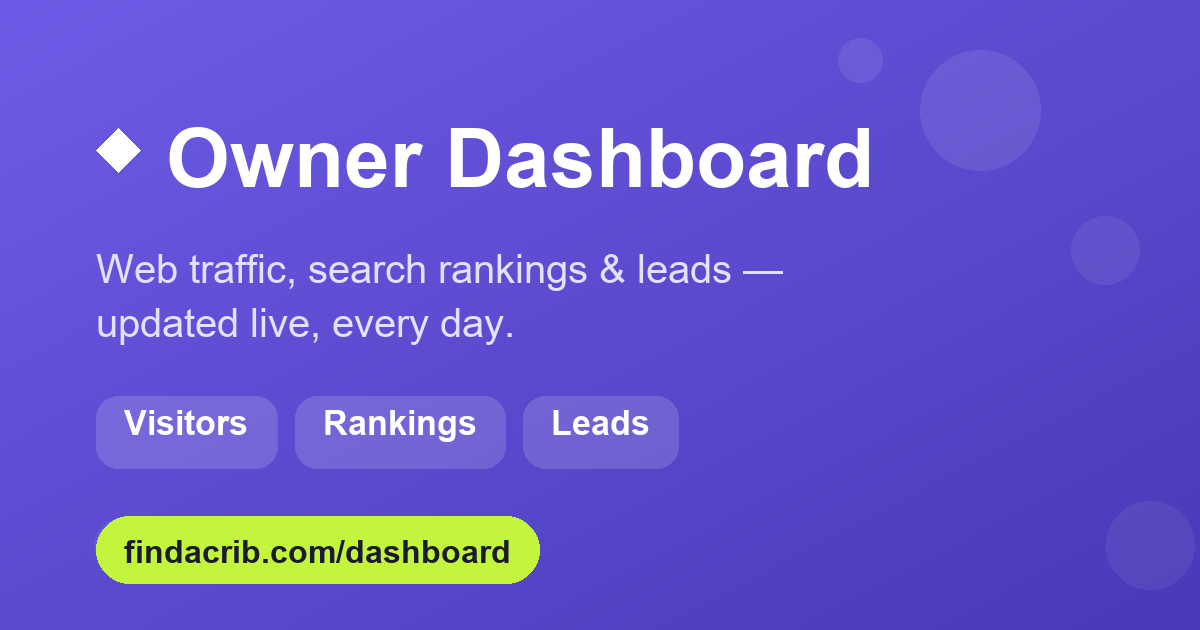
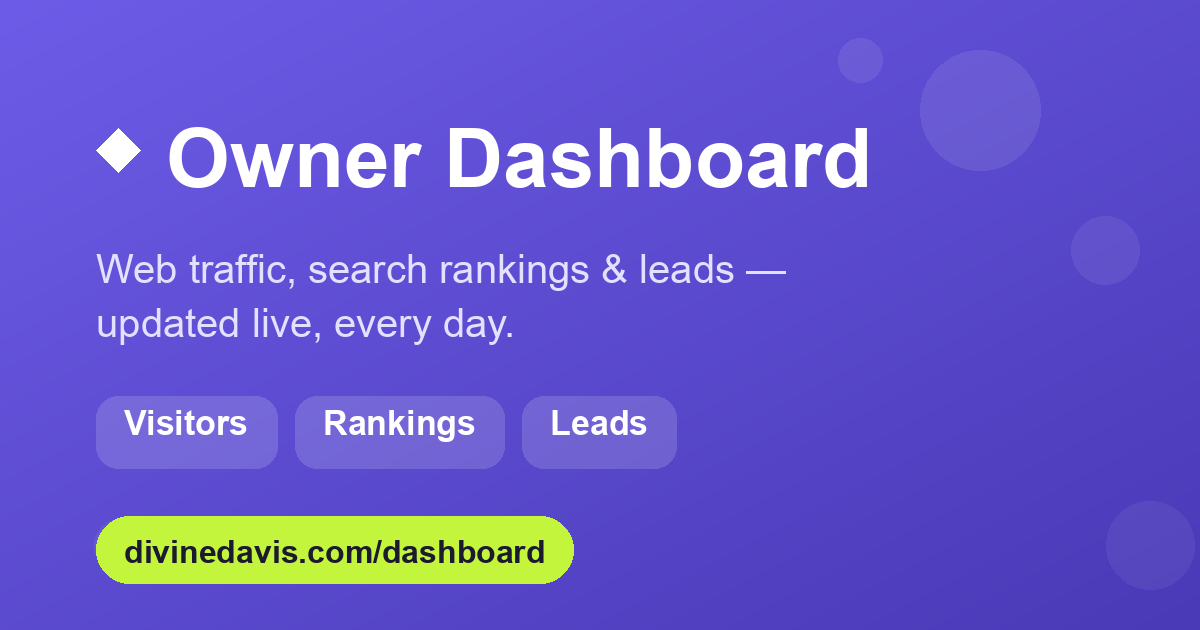
Move the owner dashboard to divinedavis.com/dashboard/
The dashboard covers four businesses, so it shouldn't live on
Find A Crib's domain. The page and the Users page are now served from
the divinedavis.com droplet. Google sign-in works the same way on the
same Supabase project, with divinedavis.com/dashboard/ and /users/
added to the auth redirect allow-list.

Data still comes from findacrib-api. The divinedavis.com nginx proxies
/api/dashboard-* to findacrib.com (prefix-scoped), so the page's
fetches stay same-origin: no CORS and no bearer token crossing origins.
findacrib.com/dashboard* now 301s to the new host, which keeps old
links, the growth report link and Eric's bookmark working.

- dashboard/supabase-config.js: only the Supabase URL and anon key, not
  the root config.js with the maps keys (named so the config.js ignore
  rule doesn't catch it)
- scripts/deploy_dashboard.sh: scp to the docroot, then check each file
  by md5 against the live URL
- og card and growth report link point at the new URL
- users/index.html also commits a sidebar cleanup that was already live
  but uncommitted

diff --git a/dashboard/index.html b/dashboard/index.html
@@ -4,24 +4,24 @@
 <meta charset="UTF-8">
 <meta name="viewport" content="width=device-width, initial-scale=1.0">
 <meta name="robots" content="noindex, nofollow">
-<title>Find A Crib — Owner Dashboard</title>
+<title>Owner Dashboard</title>
 <!-- Link preview. This URL gets texted, and with no og: tags iMessage renders
      a bare grey rectangle showing only the domain, which reads like a broken
      link. noindex above still applies: og: tags describe the card, they don't
      invite crawlers, and the page's data stays behind the sign-in gate. -->
 <meta property="og:type" content="website">
-<meta property="og:site_name" content="Find A Crib">
+<meta property="og:site_name" content="Divine Davis">
 <meta property="og:title" content="Owner Dashboard">
 <meta property="og:description" content="Web traffic, search rankings and leads — updated live, every day.">
-<meta property="og:url" content="https://findacrib.com/dashboard/">
-<meta property="og:image" content="https://findacrib.com/dashboard/og-dashboard.png">
+<meta property="og:url" content="https://divinedavis.com/dashboard/">
+<meta property="og:image" content="https://divinedavis.com/dashboard/og-dashboard.png">
 <meta property="og:image:width" content="1200">
 <meta property="og:image:height" content="630">
 <meta property="og:image:alt" content="Owner Dashboard — web traffic, search rankings and leads.">
 <meta name="twitter:card" content="summary_large_image">
 <meta name="twitter:title" content="Owner Dashboard">
 <meta name="twitter:description" content="Web traffic, search rankings and leads — updated live, every day.">
-<meta name="twitter:image" content="https://findacrib.com/dashboard/og-dashboard.png">
+<meta name="twitter:image" content="https://divinedavis.com/dashboard/og-dashboard.png">
 <link rel="apple-touch-icon" href="/dashboard/og-dashboard.png">
 <!-- Paint the saved theme before the first frame. Without this the page flashes
      light for one frame on every load, which is worst in the dark. The profile
@@ -682,8 +682,11 @@
   </main>
 </div>
 
-<script src="/config.js"></script>
-<script src="/static/supabase/supabase.js"></script>
+<!-- Served from divinedavis.com/dashboard/, so the Supabase config and client
+     ship beside the page; /api/dashboard-* is proxied to findacrib.com by the
+     divinedavis.com nginx (see scripts/deploy_dashboard.sh). -->
+<script src="/dashboard/supabase-config.js?v=1"></script>
+<script src="/dashboard/supabase.js?v=1"></script>
 <script>
 (function(){
   "use strict";

diff --git a/dashboard/users/index.html b/dashboard/users/index.html
@@ -4,7 +4,7 @@
 <meta charset="UTF-8">
 <meta name="viewport" content="width=device-width, initial-scale=1.0">
 <meta name="robots" content="noindex, nofollow">
-<title>Find A Crib — Users</title>
+<title>Owner Dashboard — Users</title>
 <!-- Paint the saved theme before the first frame — see /dashboard/. -->
 <script>
 (function(){
@@ -224,18 +224,11 @@
       <!-- ?site=fac because these sections only exist on the Find A Crib tab:
            without it a remembered NEMO tab wins and the link lands on a board
            that has no funnel to scroll to. -->
-      <!-- MUST match SITES.fac.nav in ../index.html, item for item and in order.
-           This is a separate page with its own hardcoded copy of the sidebar, so
-           the two drift silently: opening Users used to drop "Advertiser metrics",
-           add a "Revenue model" entry, and lose "Claude API" — the whole pane
-           rearranged under the cursor. "Revenue model" also pointed at
-           #sec-revenue, a section removed from the board, so it scrolled
-           nowhere. Change one list, change the other. -->
+      <!-- Keep this sidebar in sync with SITES.fac.nav in ../index.html. -->
       <a class="nav-item" href="/dashboard/?site=fac"><span class="nav-ico">▦</span> Dashboard</a>
       <a class="nav-item" href="/dashboard/?site=fac#sec-tiles"><span class="nav-ico">◫</span> Advertiser metrics</a>
       <a class="nav-item" href="/dashboard/?site=fac#sec-goals"><span class="nav-ico">◎</span> Goals &amp; revenue</a>
       <a class="nav-item active"><span class="nav-ico">☺</span> Users</a>
-      <a class="nav-item" href="/dashboard/?site=fac#sec-claude-spend"><span class="nav-ico">🤖</span> Claude API</a>
     </nav>
     <div class="nav-spacer"></div>
     <a class="nav-item" href="https://findacrib.com" target="_blank"><span class="nav-ico">↗</span> View live site</a>
@@ -280,8 +273,8 @@
   </main>
 </div>
 
-<script src="/config.js"></script>
-<script src="/static/supabase/supabase.js"></script>
+<script src="/dashboard/supabase-config.js?v=1"></script>
+<script src="/dashboard/supabase.js?v=1"></script>
 <script>
   (function(){
     var aside=document.querySelector('aside'), btn=document.getElementById('menu-btn');

diff --git a/dashboard/supabase-config.js b/dashboard/supabase-config.js
@@ -1,0 +1,6 @@
+// Supabase config for the owner dashboard at divinedavis.com/dashboard/.
+// Same project as findacrib.com (sign-in and the API's token check both use it);
+// the anon key is public by design. Nothing else from the root config.js — the
+// dashboard never needs the maps keys.
+window.SUPABASE_URL = 'https://dbaifotzwlxjvsxjohjt.supabase.co';
+window.SUPABASE_ANON_KEY = 'eyJhbGciOiJIUzI1NiIsInR5cCI6IkpXVCJ9.eyJpc3MiOiJzdXBhYmFzZSIsInJlZiI6ImRiYWlmb3R6d2x4anZzeGpvaGp0Iiwicm9sZSI6ImFub24iLCJpYXQiOjE3ODEzNzI2MTQsImV4cCI6MjA5Njk0ODYxNH0.5hoLfoKkNnEnFuu7jsfCTq_rUQqn8gf32BEI9qiyCI4';

diff --git a/api_server.py b/api_server.py
@@ -30,7 +30,7 @@ STRIPE_SECRET = os.environ.get("STRIPE_SECRET_KEY", "")
 STRIPE_WH_SECRET = os.environ.get("STRIPE_API_WEBHOOK_SECRET", "")
 PRICES = {"pro": os.environ.get("STRIPE_PRICE_PRO", ""),
           "business": os.environ.get("STRIPE_PRICE_BUSINESS", "")}
-# Owner-only analytics dashboard (findacrib.com/dashboard). The anon key is the
+# Owner-only analytics dashboard (divinedavis.com/dashboard/, proxied here). The anon key is the
 # public browser key (safe in source); it's only used server-side here to ask
 # Supabase Auth "who is this access token?" — the real gate is the email check.
 ANON_KEY = "eyJhbGciOiJIUzI1NiIsInR5cCI6IkpXVCJ9.eyJpc3MiOiJzdXBhYmFzZSIsInJlZiI6ImRiYWlmb3R6d2x4anZzeGpvaGp0Iiwicm9sZSI6ImFub24iLCJpYXQiOjE3ODEzNzI2MTQsImV4cCI6MjA5Njk0ODYxNH0.5hoLfoKkNnEnFuu7jsfCTq_rUQqn8gf32BEI9qiyCI4"

diff --git a/growth/report.py b/growth/report.py
@@ -20,7 +20,7 @@ from . import emailkit, keywords, ledger, review, searchconsole
 # Pages published across NYC/SF/LA/DC. The gap between this and the pages that
 # have ever earned an impression is the single biggest number in the report.
 PUBLISHED_PAGES = 47600
-DASHBOARD = "https://findacrib.com/dashboard"
+DASHBOARD = "https://divinedavis.com/dashboard/"
 
 # How many days the SEO corpus may go unwritten before the report says so.
 # refresh_seo.sh is nightly, so 1 day old is normal and 2 is already a miss.

diff --git a/scripts/make_dashboard_og.py b/scripts/make_dashboard_og.py
@@ -61,7 +61,7 @@ for label in chips:
     d.text((x + 28, 404), label, font=f_stat, fill="white")
     x += tw + 56 + 18
 
-pill = "findacrib.com/dashboard"
+pill = "divinedavis.com/dashboard"
 tb = d.textbbox((0, 0), pill, font=f_pill)
 tw, th = tb[2] - tb[0], tb[3] - tb[1]
 d.rounded_rectangle([96, 516, 96 + tw + 56, 516 + th + 44], radius=33,
